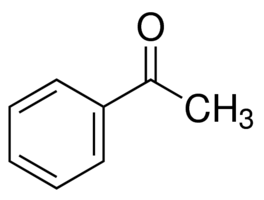
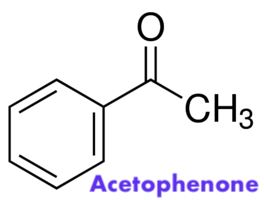
added some more and more and moree

Changed region(s): [[0.3333, 0.87, 1.0, 0.99]]

diff --git a/index.html b/index.html
@@ -177,6 +177,27 @@ div.b4 {
 	color: maroon;
 	
 }
+.q {
+	background-color: white;
+	font-size: 60px;
+}
+.t {
+	margin-right: 30px;
+    /*border: 1px solid #ddd;*/
+    border-radius: 4px;
+    padding: 5px;
+    width: 300px;  
+}
+
+.t:hover {
+    box-shadow: 0 0 2px 1px rgba(0, 140, 186, 0.5);
+}
+.sauce {
+	background-color: yellow;
+	padding-top: 20px;
+	padding-bottom: 50px;
+}
+
 </style>
 </head>
 	<p class="heading"><strong>#MythBuster Project</strong></p>
@@ -208,13 +229,13 @@ div.b4 {
 		<img src="images/boba-stickers.jpg">
 		
 		<article>
-			<h1 class="headers">Boba causes cancer?</h1>
+			<h1 class="headers"><mark class="q">Boba causes cancer?</mark></h1>
 			The boba drinks widely spreaded across Asia, the boba shops has multiplied over time in North America, as well as it got famous in the Europe, especially Germany. <br><br>
    			The myth about boba started with the release of the research from University Hospital Aachen, Germany. <br> <br>
    			What was the finding?
    			According to the report of the German researcher, Manfred Möller, of the Institute of Hygiene and Environmental Medicin at Aachen, the tapioca contain <strong>stryrene</strong>, <strong>acetophenone</strong> and other <strong>brominated chemicals</strong>.<br><br> These chemicals, they said, "shouldn't be in food at all" and they are considered by those German researchers and the media to relate to polychlorinated biphenyls(PCB), which reportedly can cause cancer and other harmful health effects in animals and humans.
 <br><br>
-			Many secondary reports among the foreign mass media, and cancer-related concerns among the boba drink consumers arise from that finding from Germany. The news also concerned parents because their teenager kids are loving and drinking various kinds of boba beverages.
+			Many secondary reports among the foreign mass media, and cancer-related concerns among the boba drink consumers arise from that finding from Germany. The news also concerned parents because their teenager kids are loving and drinking various kinds of boba beverages.<br><br>
 		</article>
 	</div>
 		
@@ -241,16 +262,26 @@ div.b4 {
 	</div>
 
 
+	<h2 style="font-family:Futura">Molecular Structures of Styrene, Polychlorinated Biphenyls, and Acetophenone</h2>
+
+    <img class="t" src="images/styrene.png" alt="styrene">
+    <img class="t" src="images/pcb-use.png" alt="pcb">
+    <img class="t" src="images/acetophenone.png" alt="acetophenone">
+
+
 	<h1 class="headers">What does drinking Boba Tea really do to your body?</h1>
-	<h3 class="s"><mark>Sources</mark></h3>
 
-    <a class="small-headers" href="http://www.berkeleywellness.com/healthy-eating/food-safety/article/tapioca-pearl-problems">Assessment on the myth at UC Berkeley</a><br>
-    <a class="small-headers" href="http://www.nydailynews.com/life-style/health/tapioca-pearls-bubble-tea-carcinogens-polychlorinated-biphenyls-pcbs-article-1.1148110">NYDailyNews</a><br>
-	<a class="small-headers" href="https://www.huffingtonpost.com/2012/09/05/bubble-tea-tapioca-pearls-may-cause-cancer-study-claims_n_1856152.html">Huffingtonpost news</a><br>
 
-	<a class="small-headers" href="https://en.wikipedia.org/wiki/Bubble_tea">Bubble Tea (Wikipedia)</a><br>
-	<a class="small-headers" href="https://www.livestrong.com/article/327076-what-is-the-nutritional-value-of-boba/">Article by LiveStrong.com</a>
-	
+	<div class="sauce">
+		<h3 class="s"><mark>Sources</mark></h3>
+
+    	<a class="small-headers" href="http://www.berkeleywellness.com/healthy-eating/food-safety/article/tapioca-pearl-problems">Assessment on the myth at UC Berkeley</a><br>
+    	<a class="small-headers" href="http://www.nydailynews.com/life-style/health/tapioca-pearls-bubble-tea-carcinogens-polychlorinated-biphenyls-pcbs-article-1.1148110">NYDailyNews</a><br>
+		<a class="small-headers" href="https://www.huffingtonpost.com/2012/09/05/bubble-tea-tapioca-pearls-may-cause-cancer-study-claims_n_1856152.html">Huffingtonpost news</a><br>
+
+		<a class="small-headers" href="https://en.wikipedia.org/wiki/Bubble_tea">Bubble Tea (Wikipedia)</a><br>
+		<a class="small-headers" href="https://www.livestrong.com/article/327076-what-is-the-nutritional-value-of-boba/">Article by LiveStrong.com</a>
+	</div>
 <!--
 	<p> Work Cited: </p>
 <p> https://en.wikipedia.org/wiki/Bubble_tea </p>
